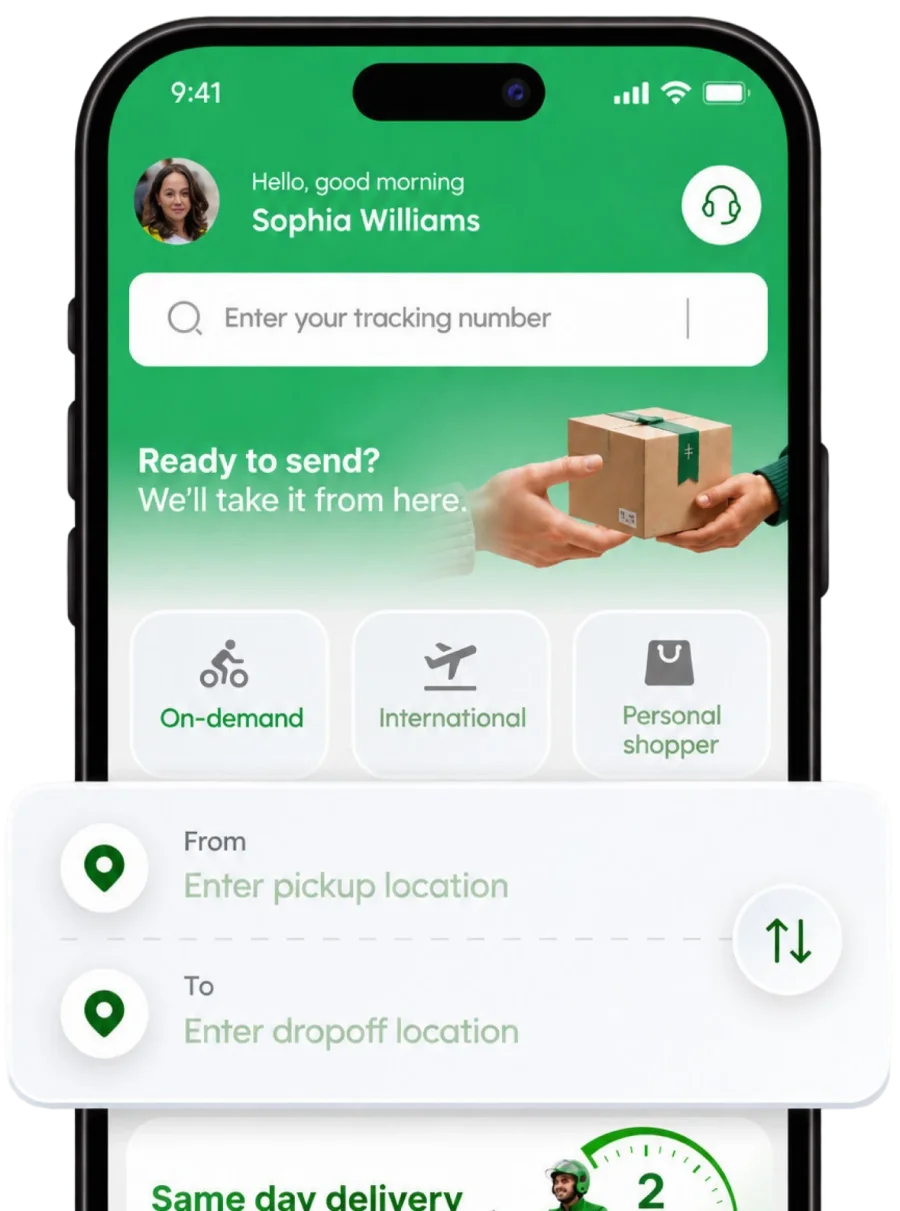
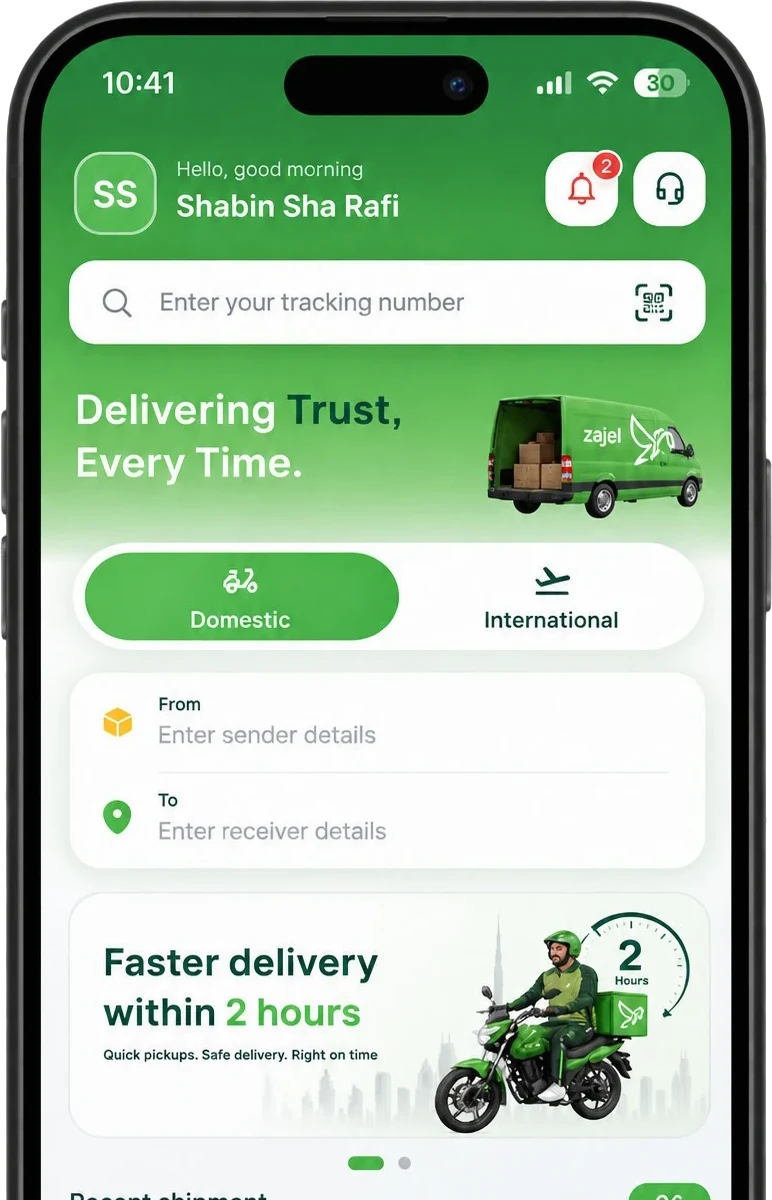
Update app steps 2–4, fix sea freight FAQs, add land freight FAQs
- How to Book Through the App: new screenshots for step 2 (home screen with
  From/To), step 3 (Book Shipment: motorbike or van, item, delivery option)
  and step 4 (Order Summary and checkout); step 3 and 4 descriptions and
  all three alt texts updated to match the new screens
- Remove Shipment Tracking from Resources in the navbar and the footer
- Sea freight FAQs: replace the e-commerce questions with the 8 sea freight
  questions from the brief
- Land freight: add the 6 FAQs from the brief at the end of the page
- Both FAQ sections also output FAQPage structured data, so every question
  and answer is in the server HTML for search engines (the accordion only
  renders an answer while it is open)

Claude-Session: https://claude.ai/code/session_01X3aaMVWQJjFE8yBf2ye3eH

diff --git a/data/sea-freight-faq.ts b/data/sea-freight-faq.ts
@@ -1,39 +1,36 @@
+import type { FaqQuestion } from "@/components/shared/faq-section";
 
-
-  import type { FaqQuestion } from "@/components/shared/faq-section";
-  
-  export const SeaFreight_FAQS: FaqQuestion[] = [
-    {
-        question: 'Can I integrate Zajel with Shopify?',
-        answer: 'Yes. Zajel offers direct Shopify integration using REST APIs. Orders sync automatically from your Shopify store to our fulfillment system, and shipment status updates push back to your Shopify order page in real time.',
-      },
-      {
-        question: 'Does Zajel integrate with WooCommerce?',
-        answer: 'Yes. Zajel provides a direct WooCommerce integration using REST APIs. Install the connection, and new orders route to our system automatically with status updates synced back to WooCommerce.',
-      },
-      {
-        question: 'What if I use a platform other than Shopify or WooCommerce?',
-        answer: 'Zajel provides REST API access so your development team can build a custom integration with any order management system, marketplace, or ERP. Our technical team supports onboarding and provides full API documentation.',
-      },
-      {
-        question: 'How does returns management work?',
-        answer: 'You log a return in the Zajel portal or it syncs through your integration. Our driver picks up the item from the customer, it is inspected at our facility against your return criteria, and approved items are restocked to your inventory. You receive a return report with item condition and updated stock counts.',
-      },
-      {
-        question: 'Can I use Zajel for COD in all emirates?',
-        answer: 'Yes. Zajel handles Cash on Delivery collection and reconciliation across all seven emirates. COD amounts are tracked in your dashboard and transferred on a regular settlement schedule.',
-      },
-      {
-        question: 'What happens if a customer refuses a COD delivery?',
-        answer: 'If a customer refuses a COD shipment, the item is returned to our facility. You are notified through the portal with the reason for refusal. The item is held for redelivery, return to your inventory, or disposed of based on your instructions.',
-      },
-      {
-        question: 'What reports do I get as a merchant?',
-        answer: 'Your merchant dashboard includes live order tracking, daily COD collection summaries, weekly and monthly delivery performance reports (success rates, transit times, return rates), and export options for CSV and PDF.',
-      },
-      {
-        question: 'Is there a minimum number of orders to use Zajel?',
-        answer: 'No. Zajel serves merchants from 1 order per day to thousands. There are no minimum volume requirements and no long-term contracts required to get started. Pricing scales with your volume.',
-      }
-  ];
-  
+export const SeaFreight_FAQS: FaqQuestion[] = [
+  {
+    question: "What's the difference between FCL and LCL?",
+    answer: "FCL (Full Container Load) reserves an entire container for your cargo alone, suited to large shipments. LCL (Less than Container Load) shares container space with other shipments, which reduces cost for smaller loads.",
+  },
+  {
+    question: "Does Zajel handle RoRo, breakbulk, or bulk cargo?",
+    answer: "Yes. Beyond standard container shipping, Zajel offers RoRo for vehicles and wheeled equipment, breakbulk for oversized or irregular cargo, and bulk shipping for unpackaged goods.",
+  },
+  {
+    question: "Does Zajel ship dangerous goods or temperature-sensitive cargo by sea?",
+    answer: "Yes. DG (Dangerous Goods) shipments are handled to full compliance standards, and temperature-controlled reefer containers are available for perishable or temperature-sensitive cargo.",
+  },
+  {
+    question: "How long does sea freight take from the UAE?",
+    answer: "Transit time depends on the destination and route — sea freight generally takes longer than air freight, which is why it's best suited to shipments with flexible timelines.",
+  },
+  {
+    question: "What kind of cargo is sea freight best suited to?",
+    answer: "Sea freight is well suited to heavy machinery, vehicles, bulk raw materials, and oversized or project cargo — cargo types where sea's capacity and cost efficiency outperform air or land.",
+  },
+  {
+    question: "Does Zajel handle import, export, and cross-trade shipments?",
+    answer: "Yes. Zajel manages sea freight into the UAE, out of the UAE, and cross-trade shipments between other countries.",
+  },
+  {
+    question: "Does Zajel handle port clearance?",
+    answer: "Yes. Customs clearance and port compliance are managed as part of the service.",
+  },
+  {
+    question: "How do I get a sea freight quote?",
+    answer: "Submit an inquiry with your cargo details and route, and our team will follow up with a tailored quote.",
+  },
+];

diff --git a/data/land-freight-faq.ts b/data/land-freight-faq.ts
@@ -1,0 +1,28 @@
+import type { FaqQuestion } from "@/components/shared/faq-section";
+
+export const LandFreight_FAQS: FaqQuestion[] = [
+  {
+    question: "What's the difference between FTL and LTL?",
+    answer: "FTL (Full Truckload) reserves an entire truck for your cargo alone, suited to large shipments. LTL (Less than Truckload) shares truck space with other shipments, which reduces cost for smaller loads.",
+  },
+  {
+    question: "Which countries does Zajel deliver to by land?",
+    answer: "Zajel provides cross-border land freight across the GCC, as well as Turkey, Jordan, Syria, and Europe.",
+  },
+  {
+    question: "Does Zajel offer domestic land freight within the UAE?",
+    answer: "Yes. Domestic distribution within the UAE is available alongside import, export, and cross-border coverage.",
+  },
+  {
+    question: "What truck types are available?",
+    answer: "Zajel's fleet includes pickup trucks, flatbeds, curtain side trucks, closed box trucks, reefer trucks, and specialized heavy transport including lowbeds, low loaders, car carriers, and recovery vehicles.",
+  },
+  {
+    question: "Can Zajel move oversized or hazardous cargo by land?",
+    answer: "Yes. Beyond general cargo, Zajel handles oversized and project cargo, oil and gas equipment, and hazardous materials, all to full compliance standards.",
+  },
+  {
+    question: "How do I get a land freight quote?",
+    answer: "Submit an inquiry with your cargo details, route, and preferred truck type, and our team will follow up with a tailored quote.",
+  },
+];

diff --git a/components/domestic-on-demand/book-through-app/index.tsx b/components/domestic-on-demand/book-through-app/index.tsx
@@ -31,21 +31,21 @@ const APP_STEPS: AppStep[] = [
     title: 'Add Pickup & Drop-off',
     description: 'Enter the pickup and delivery locations anywhere across the UAE.',
     image: '/domestic/app/step-2.webp',
-    imageAlt: 'Zajel app home screen with pickup and drop-off location fields',
+    imageAlt: 'Zajel app home screen with From and To fields for the sender and receiver',
   },
   {
     number: '03',
     title: 'Add Shipment Details',
-    description: 'Choose documents or parcel, tell us what is inside and set the weight and box size.',
+    description: 'Pick a motorbike or van for your parcel size, tell us what you are sending and choose delivery now or next day.',
     image: '/domestic/app/step-3.webp',
-    imageAlt: 'Shipment details screen in the Zajel app with weight and box size',
+    imageAlt: 'Book Shipment screen in the Zajel app with motorbike or van, item details and delivery options',
   },
   {
     number: '04',
     title: 'Pay Your Way',
-    description: 'Pay by cash on delivery, Careem Pay or Tabby, then track your courier live.',
+    description: 'Review your order summary with VAT included, then check out with cash on delivery, Careem Pay or Tabby.',
     image: '/domestic/app/step-4.webp',
-    imageAlt: 'Payment screen in the Zajel app showing cash on delivery, Careem Pay and Tabby',
+    imageAlt: 'Order summary screen in the Zajel app showing the total with VAT and a Checkout button',
   },
 ];
 

diff --git a/lib/faq-json-ld.tsx b/lib/faq-json-ld.tsx
@@ -1,0 +1,25 @@
+import type { FaqQuestion } from "@/components/shared/faq-section";
+
+/**
+ * FAQPage structured data for a page's FAQ section. The accordion only renders
+ * an answer while it is open, so this keeps every question and answer in the
+ * server HTML for search engines (and makes the page eligible for FAQ rich results).
+ */
+export default function FaqJsonLd({ items }: { items: FaqQuestion[] }) {
+  const jsonLd = {
+    "@context": "https://schema.org",
+    "@type": "FAQPage",
+    mainEntity: items.map((item) => ({
+      "@type": "Question",
+      name: item.question,
+      acceptedAnswer: { "@type": "Answer", text: item.answer },
+    })),
+  };
+  return (
+    <script
+      type="application/ld+json"
+      // `<` escaped so answer text can never close the script tag
+      dangerouslySetInnerHTML={{ __html: JSON.stringify(jsonLd).replace(/</g, "\\u003c") }}
+    />
+  );
+}

diff --git a/app/land-freight/page.tsx b/app/land-freight/page.tsx
@@ -16,6 +16,9 @@ import LandFreightBanner from '@/components/land-freight/landproject';
 import IndustriesWeServe from '@/components/land-freight/industry';
 import HowFreightQuoteWorks from '@/components/land-freight/HowItworks';
 import LandFreightHero from '@/components/land-freight/hero';
+import LandFreightFAQS from '@/components/land-freight/faq';
+import { LandFreight_FAQS } from '@/data/land-freight-faq';
+import FaqJsonLd from '@/lib/faq-json-ld';
 
 export const metadata: Metadata = pageMetadata({
   title: "Land Freight Services",
@@ -50,6 +53,8 @@ export default function LandFreightPage() {
 
       <ColdChainGridSection />
 
+      <LandFreightFAQS />
+      <FaqJsonLd items={LandFreight_FAQS} />
     </main>
   );
 }

diff --git a/app/sea-freight/page.tsx b/app/sea-freight/page.tsx
@@ -16,6 +16,8 @@ import SeaFreightFAQS from "@/components/sea-freight/faq";
 import SeaFreightHero from "@/components/sea-freight/hero";
 import ContactSection from "@/components/shared/contact";
 import { seaFreightContent } from "@/data/contact-content";
+import { SeaFreight_FAQS } from "@/data/sea-freight-faq";
+import FaqJsonLd from "@/lib/faq-json-ld";
 
 export const metadata: Metadata = pageMetadata({
   title: "Sea Freight Shipping in the UAE",
@@ -47,6 +49,7 @@ export default function SeaFreightPage() {
       <ContactSection content={seaFreightContent} />
 
       <SeaFreightFAQS/>
+      <FaqJsonLd items={SeaFreight_FAQS} />
     </main>
   );
 }

diff --git a/data/navigation.tsx b/data/navigation.tsx
@@ -314,15 +314,4 @@ export interface NavItem {
         </svg>
       ),
     },
-    {
-      name: "Shipment Tracking",
-      desc: "Track your delivery in real time.",
-      path: "/track",
-      icon: (
-        <svg width="18" height="18" viewBox="0 0 24 24" fill="none" stroke="currentColor" strokeWidth="1.5" strokeLinecap="round" strokeLinejoin="round">
-          <path d="M12 21s-7-6.5-7-11a7 7 0 0 1 14 0c0 4.5-7 11-7 11z" />
-          <circle cx="12" cy="10" r="2.5" />
-        </svg>
-      ),
-    },
   ];

diff --git a/components/land-freight/faq.tsx b/components/land-freight/faq.tsx
@@ -1,0 +1,14 @@
+"use client";
+
+import FaqSection from "@/components/shared/faq-section";
+import { LandFreight_FAQS } from "@/data/land-freight-faq";
+
+export default function LandFreightFAQS() {
+  return (
+    <FaqSection
+      eyebrow="FAQ"
+      heading="Frequently Asked Questions"
+      items={LandFreight_FAQS}
+    />
+  );
+}

diff --git a/components/Footer.tsx b/components/Footer.tsx
@@ -49,7 +49,6 @@ const COLUMNS: FooterColumn[] = [
     title: 'Resources',
     links: [
       { label: 'Download the App', href: '/#download-app' },
-      { label: 'Shipment Tracking', href: '/track' },
       { label: 'Help Center', href: '/support' },
       { label: 'FAQ', href: '/faq' },
       { label: 'Blog', href: '/#news' },
